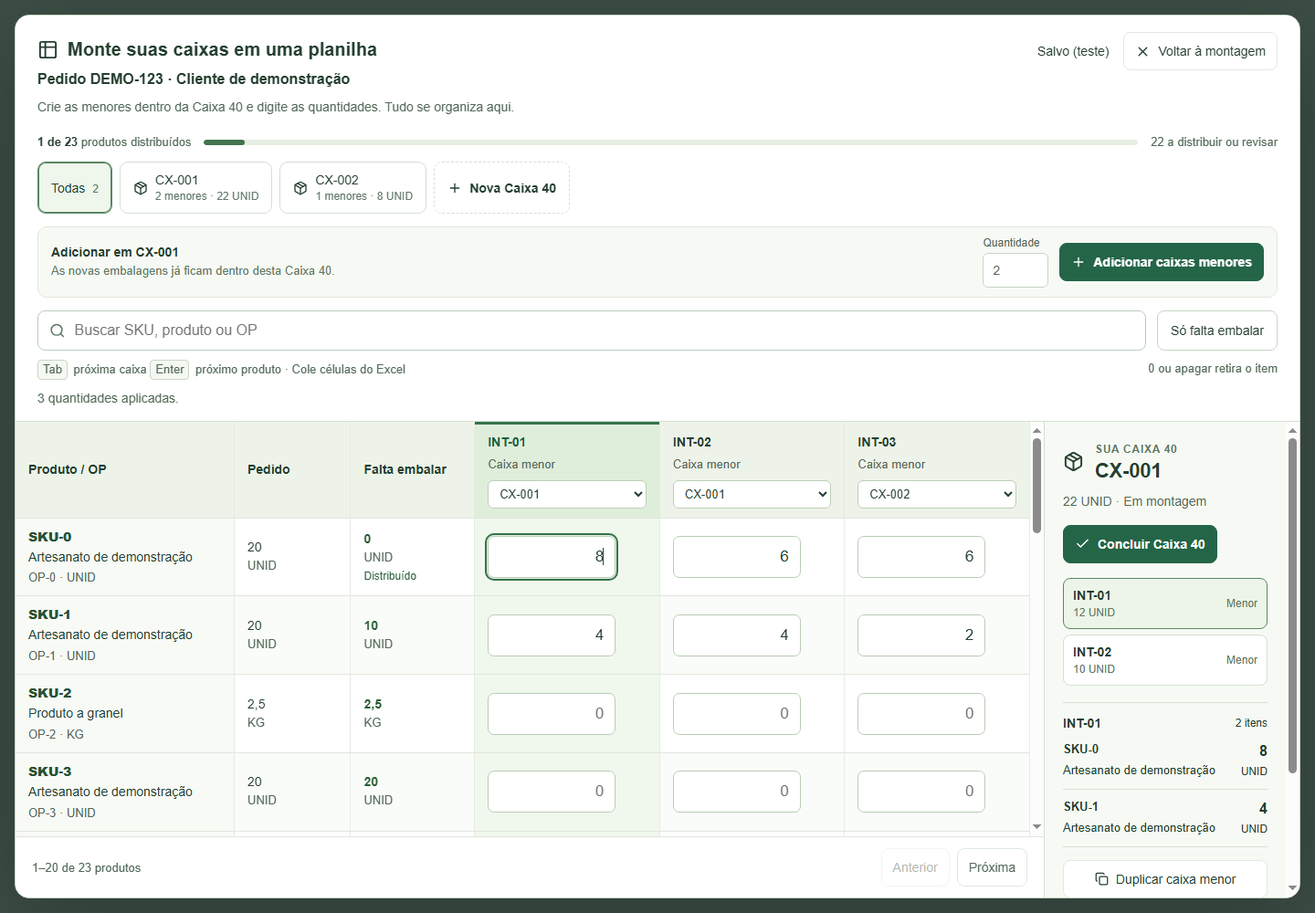
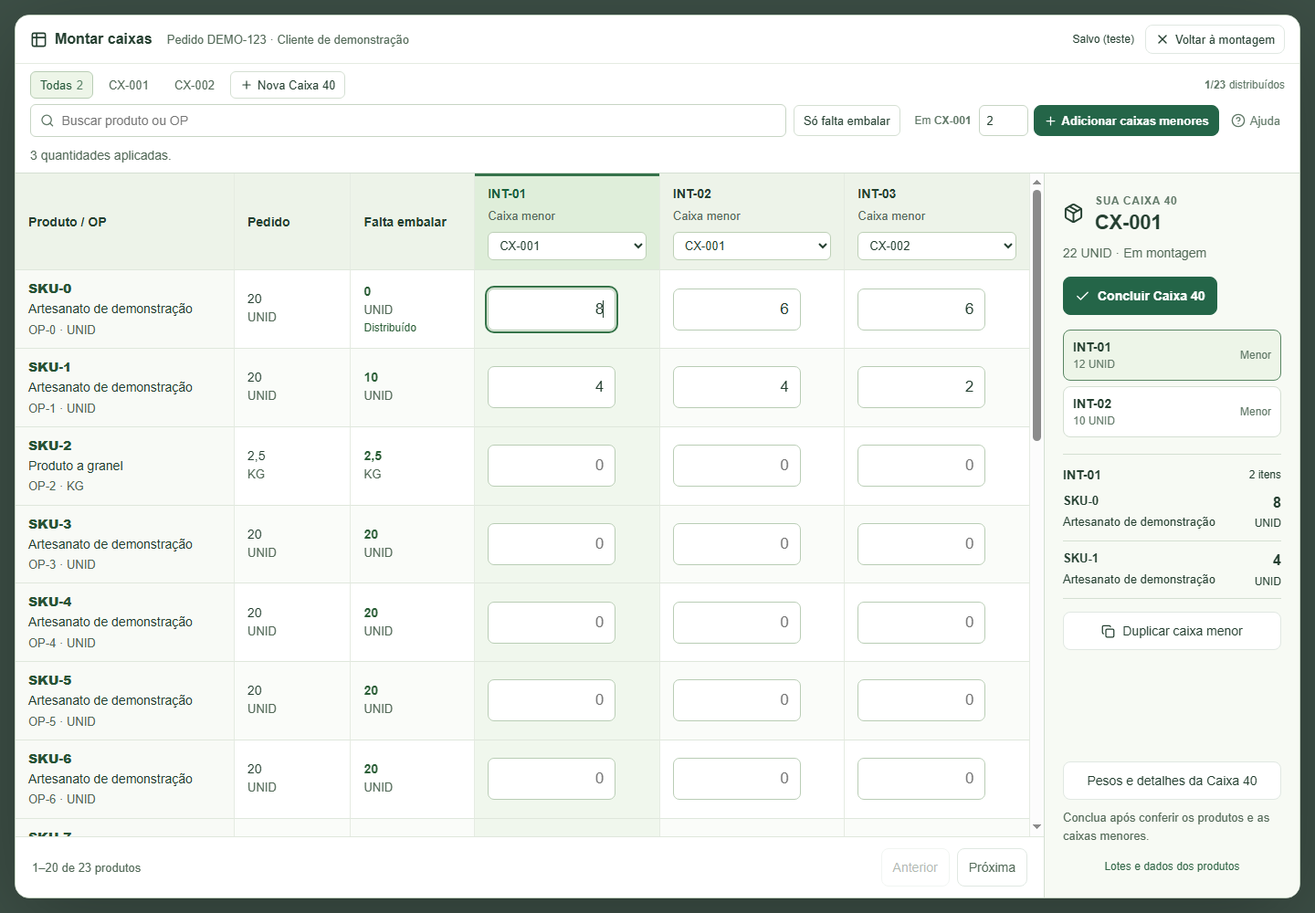
Compact packing sheet controls and refresh manual visuals

diff --git a/app/packing-sheet.module.css b/app/packing-sheet.module.css
@@ -1,23 +1,6 @@
 .sheet{min-width:0;margin:16px 0 24px;border:1px solid light-dark(#d4dfd2,var(--night-border));border-radius:12px;background:light-dark(#fff,var(--night-surface));overflow:hidden;color:light-dark(#243f30,var(--night-text))}
-.heading{display:flex;align-items:flex-start;justify-content:space-between;gap:24px;padding:22px 24px 16px}
-.heading h2{display:flex;align-items:center;gap:10px;margin:6px 0 0;font-size:1.35rem;line-height:1.3;font-weight:650}
-.eyebrow{font-size:.75rem;letter-spacing:.09em;color:light-dark(#607867,var(--night-muted));font-weight:600}
-.heading p,.hint{font-size:.875rem;line-height:1.5;color:light-dark(#526957,var(--night-muted));margin:8px 0}
-.heading .orderLabel{font-weight:600;color:inherit;font-size:1rem}
-.headerActions{display:flex;align-items:center;gap:16px;flex-shrink:0}
+.hint{font-size:.875rem;line-height:1.5;color:light-dark(#526957,var(--night-muted));margin:8px 0}
 .sheet :global(.button){min-height:42px;font-size:.875rem;display:inline-flex;align-items:center;justify-content:center;gap:8px}
-.saveStatus{font-size:.875rem}
-.metrics{display:grid;grid-template-columns:repeat(4,minmax(0,1fr));gap:12px;margin:0 24px 18px}
-.metrics>div{padding:14px 18px;background:light-dark(#f3f7f1,var(--night-raised));border:1px solid light-dark(#dfe8dc,var(--night-border));border-radius:10px}
-.metrics span{display:block;font-size:.875rem;color:light-dark(#526957,var(--night-muted))}
-.metrics strong{display:block;font-size:1.6rem;font-weight:650;margin-top:6px;font-variant-numeric:tabular-nums}
-.toolbar{display:flex;align-items:center;gap:12px;padding:0 24px 14px;flex-wrap:wrap}
-.sheet .search{display:flex;flex-direction:row;align-items:center;gap:10px;flex:1;margin:0;min-width:200px;border:1px solid light-dark(#b9cdbd,var(--night-border));border-radius:8px;padding:0 12px;color:light-dark(#597762,var(--night-muted))}
-.search input{width:100%;min-width:0;border:0!important;background:transparent!important;padding:12px 0!important;font-size:1rem;color:inherit}
-.filter{display:inline-flex;align-items:center;justify-content:center;gap:6px;padding:11px 14px;min-height:44px;border:1px solid light-dark(#c7d5c4,var(--night-border));background:transparent;border-radius:8px;font:inherit;font-size:.875rem;color:inherit;cursor:pointer}
-.filter[aria-pressed=true]{background:light-dark(#e8f2e4,var(--night-green-soft));border-color:light-dark(#7d9f70,var(--night-green));color:light-dark(#225638,var(--night-green))}
-.instructions{display:flex;justify-content:space-between;gap:12px;flex-wrap:wrap;padding:0 24px 14px;font-size:.8125rem;line-height:1.5;color:light-dark(#526957,var(--night-muted))}
-.instructions kbd{display:inline-block;border:1px solid light-dark(#c9d6c6,var(--night-border));border-radius:4px;padding:0 5px;background:light-dark(#f5f8f2,var(--night-raised));font:inherit;margin-right:3px}
 .sheet>.hint,.sheet>.error{margin:0 24px 14px}
 .workspace{min-height:0;min-width:0;display:grid;grid-template-columns:minmax(0,1fr)}
 .gridPane{min-width:0;min-height:0;display:flex;flex-direction:column}
@@ -49,7 +32,7 @@
 .screen{position:fixed;inset:0;width:calc(100vw - 32px);height:calc(100dvh - 32px);max-width:none;max-height:none;margin:auto;padding:0;border:1px solid light-dark(#c7d5c4,var(--night-border));border-radius:16px;background:light-dark(#fff,var(--night-surface));color:inherit;box-shadow:0 24px 100px #0004}
 .screen::backdrop{background:#10251dcc}
 .expanded{margin:0;border:0;border-radius:0;height:100%;display:flex;flex-direction:column}
-.expanded>.heading,.expanded>.metrics,.expanded>.toolbar,.expanded>.instructions,.expanded>.error,.expanded>.hint{flex-shrink:0}
+.expanded>.error,.expanded>.hint{flex-shrink:0}
 .expanded .workspace{flex:1;grid-template-columns:minmax(0,1fr) 280px;overflow:hidden}
 .expanded .scroll{max-height:none;flex:1;min-height:0}
 .preview{display:flex;flex-direction:column;min-width:0;min-height:0;padding:20px;border-left:1px solid light-dark(#d4dfd2,var(--night-border));border-top:1px solid light-dark(#d4dfd2,var(--night-border));background:light-dark(#f7faf4,var(--night-surface));overflow:auto}
@@ -67,15 +50,22 @@
 .previewEmpty p{font-size:1rem;font-weight:600}
 .previewActions{display:flex;flex-direction:column;gap:10px;margin-top:auto;padding-top:24px}
 .previewActions small{font-size:.8125rem;line-height:1.5;color:light-dark(#526957,var(--night-muted))}
-@media(max-width:1050px){.expanded .workspace{grid-template-columns:minmax(0,1fr) 235px}.preview{padding:16px}.heading{gap:16px}.headerActions{flex-direction:column;align-items:flex-end;gap:8px}.table th:first-child{min-width:210px;max-width:250px}.metrics{gap:8px}.metrics>div{padding:12px}}
-@media(max-width:700px){.heading{flex-direction:column;padding:18px 16px 14px;gap:12px}.heading h2{font-size:1.2rem}.headerActions{width:100%;flex-direction:row;justify-content:space-between;align-items:center}.metrics{grid-template-columns:repeat(2,minmax(0,1fr));margin:0 16px 14px}.metrics strong{font-size:1.3rem}.metrics span{font-size:.8125rem}.toolbar{padding:0 16px 12px;gap:8px}.sheet .search{flex-basis:100%}.instructions{padding:0 16px 12px}.table th:first-child{min-width:160px;max-width:180px;width:160px}.table th,.table td{padding:10px}.table thead th{min-width:98px}.footer{align-items:flex-start}.scroll{max-height:60dvh}.mobileHint{display:block;font-size:.8125rem;margin:0;padding:8px 16px;background:light-dark(#edf3e9,var(--night-raised));color:light-dark(#526957,var(--night-muted))}.screen{width:100vw;height:100dvh;border:0;border-radius:0;overflow:auto}.expanded{height:auto;min-height:100%}.expanded .workspace{display:flex;flex-direction:column;overflow:visible;flex:none}.expanded .scroll{flex:none;max-height:58dvh;min-height:220px}.preview{border-left:0;overflow:visible;min-height:250px}.previewActions{margin-top:0}.sheet>.error,.sheet>.hint{margin:0 16px 12px}}
-@media(max-width:700px){.metrics>div:first-child,.metrics>div:nth-child(3){display:none}.heading>div>p:not(.orderLabel){display:none}.instructions{display:none}}
-.progress{display:flex;align-items:center;gap:14px;margin:0 24px 20px;font-size:.8125rem;color:light-dark(#526957,var(--night-muted))}.progress strong{color:light-dark(#243f30,var(--night-text))}.progress progress{flex:1;min-width:60px;height:6px;border:0;border-radius:8px;overflow:hidden;accent-color:#42734e}.progress progress::-webkit-progress-bar{background:light-dark(#e7eee3,var(--night-raised))}.progress progress::-webkit-progress-value{background:light-dark(#42734e,var(--night-green));border-radius:8px}
-.boxTabs{display:flex;align-items:stretch;gap:8px;padding:0 24px 18px;overflow-x:auto;flex-shrink:0}.boxTabs button{display:flex;align-items:center;gap:8px;white-space:nowrap;padding:11px 14px;min-height:48px;border:1px solid light-dark(#d4dfd2,var(--night-border));border-radius:9px;background:transparent;color:inherit;cursor:pointer;font:inherit;font-size:.875rem;text-align:left}.boxTabs button[aria-pressed=true]{border-color:light-dark(#598663,var(--night-green));background:light-dark(#eff6eb,var(--night-green-soft));box-shadow:inset 0 0 0 1px light-dark(#598663,var(--night-green))}.boxTabs small{display:block;font-size:.75rem;margin-top:3px;font-weight:400;color:light-dark(#607867,var(--night-muted))}.boxTabs .newOuter{font-weight:600;border-style:dashed}.boxTabs button:disabled{opacity:.55;cursor:default}
-.addRow{display:flex;align-items:center;gap:12px;margin:0 24px 18px;padding:14px 16px;border:1px solid light-dark(#dfe8dc,var(--night-border));border-radius:10px;background:light-dark(#f7faf4,var(--night-raised))}.addRow>span{flex:1;font-size:.875rem}.addRow small{display:block;font-size:.8125rem;color:light-dark(#607867,var(--night-muted));margin-top:4px;line-height:1.4}.addRow label{display:flex;flex-direction:column;gap:4px;margin:0;font-size:.75rem;color:light-dark(#526957,var(--night-muted))}.addRow input{width:72px}.addRow input,.addRow select{padding:8px 10px;min-height:38px;border:1px solid light-dark(#c7d5c4,var(--night-border));border-radius:6px;font:inherit;font-size:.875rem;background:light-dark(#fff,var(--night-surface));color:inherit}.sheet .addRow .button{align-self:flex-end}
+@media(max-width:1050px){.expanded .workspace{grid-template-columns:minmax(0,1fr) 235px}.preview{padding:16px}.table th:first-child{min-width:210px;max-width:250px}}
+@media(max-width:700px){.table th:first-child{min-width:160px;max-width:180px;width:160px}.table th,.table td{padding:10px}.table thead th{min-width:98px}.footer{align-items:flex-start}.scroll{max-height:60dvh}.mobileHint{display:block;font-size:.8125rem;margin:0;padding:8px 16px;background:light-dark(#edf3e9,var(--night-raised));color:light-dark(#526957,var(--night-muted))}.screen{width:100vw;height:100dvh;border:0;border-radius:0;overflow:auto}.expanded{height:auto;min-height:100%}.expanded .workspace{display:flex;flex-direction:column;overflow:visible;flex:none}.expanded .scroll{flex:none;max-height:58dvh;min-height:220px}.preview{border-left:0;overflow:visible;min-height:250px}.previewActions{margin-top:0}.sheet>.error,.sheet>.hint{margin:0 16px 12px}}
 .table th .destination{display:block;width:100%;min-width:125px;max-width:180px;margin-top:8px;padding:6px 22px 6px 8px;border:1px solid light-dark(#bdd0b6,var(--night-border));border-radius:6px;color:inherit;background:light-dark(#fff,var(--night-surface));font:inherit;font-size:.8125rem;font-weight:400}
-.workspace{grid-template-columns:minmax(0,1fr) 260px}.table th:first-child{min-width:210px;width:240px;max-width:260px}.sheet:not(.expanded) .preview{max-height:680px}.sheet:not(.expanded) .heading{padding:20px}.sheet:not(.expanded) .heading h2{font-size:1.15rem}.sheet:not(.expanded) .headerActions{flex-direction:column;align-items:flex-end}
-.composition{display:flex;flex-direction:column;gap:6px;margin-bottom:18px}.composition>button{display:flex;justify-content:space-between;align-items:center;gap:10px;text-align:left;width:100%;font:inherit;font-size:.875rem;padding:10px;border:1px solid light-dark(#d4dfd2,var(--night-border));border-radius:8px;background:light-dark(#fff,var(--night-raised));color:inherit;cursor:pointer}.composition>button[aria-pressed=true]{border-color:light-dark(#598663,var(--night-green));background:light-dark(#edf5e8,var(--night-green-soft))}.composition small{display:block;font-size:.75rem;font-weight:400;margin-top:4px;color:light-dark(#607867,var(--night-muted))}.composition>button>span:first-child{font-weight:600}.composition>button>span:last-child{font-size:.75rem;color:light-dark(#607867,var(--night-muted))}.composition p{font-size:.875rem;line-height:1.5}.selectedContent h4{display:flex;align-items:center;justify-content:space-between;gap:8px;margin:0;padding:14px 0 2px;border-top:1px solid light-dark(#d4dfd2,var(--night-border));font-size:.875rem}.selectedContent h4 small{font-size:.75rem;font-weight:400}.selectedContent li{padding:10px 0;font-size:.8125rem}.selectedContent li>strong{font-size:1rem}.smallActions{display:flex;flex-direction:column;gap:8px;margin-top:14px}.expanded>.progress,.expanded>.addRow{flex-shrink:0}.previewActions{padding-top:18px}
+.workspace{grid-template-columns:minmax(0,1fr) 260px}.table th:first-child{min-width:210px;width:240px;max-width:260px}.sheet:not(.expanded) .preview{max-height:680px}
+.composition{display:flex;flex-direction:column;gap:6px;margin-bottom:18px}.composition>button{display:flex;justify-content:space-between;align-items:center;gap:10px;text-align:left;width:100%;font:inherit;font-size:.875rem;padding:10px;border:1px solid light-dark(#d4dfd2,var(--night-border));border-radius:8px;background:light-dark(#fff,var(--night-raised));color:inherit;cursor:pointer}.composition>button[aria-pressed=true]{border-color:light-dark(#598663,var(--night-green));background:light-dark(#edf5e8,var(--night-green-soft))}.composition small{display:block;font-size:.75rem;font-weight:400;margin-top:4px;color:light-dark(#607867,var(--night-muted))}.composition>button>span:first-child{font-weight:600}.composition>button>span:last-child{font-size:.75rem;color:light-dark(#607867,var(--night-muted))}.composition p{font-size:.875rem;line-height:1.5}.selectedContent h4{display:flex;align-items:center;justify-content:space-between;gap:8px;margin:0;padding:14px 0 2px;border-top:1px solid light-dark(#d4dfd2,var(--night-border));font-size:.875rem}.selectedContent h4 small{font-size:.75rem;font-weight:400}.selectedContent li{padding:10px 0;font-size:.8125rem}.selectedContent li>strong{font-size:1rem}.smallActions{display:flex;flex-direction:column;gap:8px;margin-top:14px}.previewActions{padding-top:18px}
 @media(max-width:1100px){.sheet:not(.expanded) .workspace{grid-template-columns:minmax(0,1fr)}.sheet:not(.expanded) .preview{max-height:none;border-left:0}.sheet:not(.expanded) .composition{display:grid;grid-template-columns:repeat(auto-fit,minmax(160px,1fr))}.sheet:not(.expanded) .selectedContent{display:none}.sheet:not(.expanded) .previewActions{flex-direction:row;flex-wrap:wrap}.sheet:not(.expanded) .previewActions small{flex-basis:100%}}
-@media(max-width:700px){.progress{margin:0 16px 16px;flex-wrap:wrap;gap:8px}.progress progress{order:3;flex-basis:100%}.progress>span:last-child{margin-left:auto}.boxTabs{padding:0 16px 14px}.addRow{margin:0 16px 14px;padding:12px;flex-wrap:wrap;gap:10px}.addRow>span{flex-basis:100%}.addRow input{width:64px}.sheet .addRow .button{flex:1;font-size:.8125rem}.addRow small{display:none}.sheet:not(.expanded) .headerActions{flex-direction:row;align-items:center}.table th:first-child{min-width:155px;max-width:180px;width:155px}.workspace{display:flex;flex-direction:column}.table th .destination{min-width:120px}.sheet:not(.expanded) .previewActions{flex-direction:column}.preview{border-left:0}}
-.conclude{margin-bottom:16px}.conclude .button{width:100%}.expanded .heading{padding:18px 24px 12px}.expanded .heading h2{font-size:1.25rem}.expanded .eyebrow{display:none}.expanded .progress{margin-bottom:14px}.expanded .boxTabs{padding-bottom:14px}.expanded .addRow{margin-bottom:14px;padding:10px 14px}.expanded .toolbar{padding-bottom:10px}.expanded .instructions{padding-bottom:10px}
+@media(max-width:700px){.table th:first-child{min-width:155px;max-width:180px;width:155px}.workspace{display:flex;flex-direction:column}.table th .destination{min-width:120px}.sheet:not(.expanded) .previewActions{flex-direction:column}.preview{border-left:0}}
+.conclude{margin-bottom:16px}.conclude .button{width:100%}
+
+/* Compact controls keep the product grid in view. */
+.heading{display:flex;align-items:center;justify-content:space-between;gap:16px;padding:10px 16px;border-bottom:1px solid light-dark(#e5ebe2,var(--night-border));flex-shrink:0}
+.identity{display:flex;align-items:center;gap:16px;min-width:0;flex:1}.heading h2{display:flex;align-items:center;gap:8px;margin:0;font-size:1rem;line-height:1.35;font-weight:650;white-space:nowrap}.orderLabel{font-size:.8125rem;color:light-dark(#526957,var(--night-muted));overflow:hidden;text-overflow:ellipsis;white-space:nowrap;min-width:0}
+.headerActions{display:flex;align-items:center;gap:12px;flex-shrink:0}.saveStatus{font-size:.75rem}.heading :global(.button){min-height:32px;padding:6px 10px;font-size:.8125rem;gap:6px}.heading :global(.button) svg{flex-shrink:0}
+.boxRow{display:flex;align-items:center;gap:16px;padding:8px 16px 6px;flex-shrink:0;min-width:0}.boxTabs{display:flex;align-items:center;gap:6px;min-width:0;flex:1;overflow-x:auto}.boxTabs button{display:inline-flex;align-items:center;gap:5px;white-space:nowrap;min-height:30px;padding:5px 10px;border:1px solid transparent;border-radius:6px;background:transparent;color:light-dark(#526957,var(--night-muted));font:inherit;font-size:.8125rem;cursor:pointer}.boxTabs button[aria-pressed=true]{border-color:light-dark(#b9cdb5,var(--night-border));background:light-dark(#edf5e8,var(--night-green-soft));color:light-dark(#245738,var(--night-green))}.boxTabs small{font:inherit;opacity:.75}.boxTabs .newOuter{border-color:light-dark(#d4dfd2,var(--night-border));color:inherit}.boxTabs button:disabled{opacity:.55;cursor:default}.progress{font-size:.75rem;color:light-dark(#607867,var(--night-muted));white-space:nowrap;flex-shrink:0}.progress strong{font-weight:600;color:inherit}
+.toolbar{display:flex;align-items:center;gap:8px;flex-wrap:wrap;padding:0 16px 10px;flex-shrink:0}.sheet .search{display:flex;flex-direction:row;align-items:center;gap:8px;flex:1;min-width:170px;margin:0;border:1px solid light-dark(#c7d5c4,var(--night-border));border-radius:6px;padding:0 10px;color:light-dark(#607867,var(--night-muted))}.search input{width:100%;min-width:0;min-height:34px;border:0!important;background:transparent!important;padding:7px 0!important;font-size:.875rem;color:inherit}.filter{display:inline-flex;align-items:center;justify-content:center;gap:5px;min-height:34px;padding:7px 10px;border:1px solid light-dark(#d4dfd2,var(--night-border));border-radius:6px;background:transparent;font:inherit;font-size:.8125rem;white-space:nowrap;color:inherit;cursor:pointer}.filter[aria-pressed=true]{background:light-dark(#e8f2e4,var(--night-green-soft));border-color:light-dark(#7d9f70,var(--night-green));color:light-dark(#225638,var(--night-green))}
+.addRow{display:flex;align-items:center;gap:6px;margin-left:auto;max-width:100%}.addDestination{font-size:.75rem;color:light-dark(#607867,var(--night-muted));white-space:nowrap;margin:0 2px 0 8px}.addDestination strong{font-weight:600;color:inherit}.addRow input,.addRow select{min-height:34px;padding:6px 8px;border:1px solid light-dark(#c7d5c4,var(--night-border));border-radius:6px;background:light-dark(#fff,var(--night-surface));font:inherit;font-size:.8125rem;color:inherit}.addRow input{width:54px;min-width:0}.addRow select{max-width:125px}.addRow :global(.button){min-height:34px;padding:7px 10px;font-size:.8125rem;white-space:nowrap;gap:5px}
+.help{position:relative;margin:0;color:light-dark(#607867,var(--night-muted));font-size:.8125rem}.help summary{display:flex;align-items:center;gap:5px;min-height:34px;padding:7px 5px;cursor:pointer;list-style:none;white-space:nowrap}.help summary::-webkit-details-marker{display:none}.help[open] summary{color:light-dark(#245738,var(--night-green))}.help>div{position:absolute;top:100%;right:0;width:min(340px,calc(100vw - 48px));padding:12px 16px;border:1px solid light-dark(#c7d5c4,var(--night-border));border-radius:8px;background:light-dark(#fff,var(--night-surface));box-shadow:0 8px 28px #0002;z-index:10;line-height:1.5;color:light-dark(#526957,var(--night-muted))}.help p{margin:0 0 10px}.help p:last-child{margin-bottom:0}.help kbd{border:1px solid light-dark(#c7d5c4,var(--night-border));border-radius:3px;padding:0 4px;font:inherit}.hint{font-size:.875rem;line-height:1.5;color:light-dark(#526957,var(--night-muted));margin:8px 0}.sheet>.hint,.sheet>.error{margin:0 16px 8px}
+@media(max-width:1100px){.identity{flex-wrap:wrap;gap:2px 12px}.orderLabel{flex-basis:100%}.toolbar .search{flex-basis:240px}}
+@media(max-width:700px){.heading{padding:8px 12px;gap:8px}.identity{display:block}.heading h2{font-size:.9375rem}.orderLabel{display:block;font-size:.75rem;margin-top:3px}.headerActions{gap:8px}.heading :global(.button){min-height:36px;min-width:36px;padding:8px}.headerActions button>span{display:none}.saveStatus{max-width:90px}.boxRow{padding:6px 12px;gap:8px}.boxTabs button{min-height:34px;padding:6px 8px}.progress{font-size:.6875rem}.toolbar{padding:0 12px 8px;gap:6px}.toolbar .search{order:0;flex-basis:calc(100% - 150px);min-width:140px}.filter{order:1;font-size:.75rem;min-height:36px;padding:7px 8px}.addRow{order:2;flex-wrap:wrap;flex:1;margin-left:0;gap:5px}.addDestination{margin:0;font-size:.6875rem}.addRow input{width:44px;padding:6px 4px;min-height:36px}.addRow select{max-width:110px;min-height:36px}.addRow :global(.button){font-size:.75rem;min-height:36px;padding:6px 8px}.help{order:3}.help summary{min-height:36px;padding:6px}.help summary svg{width:16px}.help summary{font-size:0;gap:0}.help>div{right:0;font-size:.8125rem}.sheet>.hint,.sheet>.error{margin:0 12px 8px}.mobileHint{padding:4px 12px;font-size:.75rem}}

diff --git a/app/packing-sheet.tsx b/app/packing-sheet.tsx
@@ -1,6 +1,6 @@
 "use client";
 import {useEffect,useId,useRef,useState,type ClipboardEvent,type KeyboardEvent,type ReactNode} from "react";
-import {Plus,Search,Table2,Maximize2,X,Package,Check,Copy} from "lucide-react";
+import {Plus,Search,Table2,Maximize2,X,Package,Check,Copy,CircleHelp} from "lucide-react";
 import {packingBalance} from "../lib/packing-assistant.mjs";
 import {applySheetQuantities,type SheetChange} from "../lib/packing-sheet.mjs";
 import {isDecimalDraft,type Shipment,type ShippingOP} from "../lib/shipping.mjs";
@@ -70,12 +70,11 @@ export default function PackingSheet({value,ops,disabled,onChange,onOpen,onForm,
  }
  function selectOuter(id:string){setScope(id);setActiveBox("");setNotice("")}
  const content=<section className={styles.sheet+(expanded?" "+styles.expanded:"")} aria-label="Planilha de montagem">
-  <header className={styles.heading}><div><span className={styles.eyebrow}>MONTAGEM DO PEDIDO</span><h2 id={titleId}><Table2 size={23}/>Monte suas caixas em uma planilha</h2>{orderLabel&&<p className={styles.orderLabel}>{orderLabel}</p>}<p id={helpId}>{hasSmall?"Crie as menores dentro da Caixa 40 e digite as quantidades. Tudo se organiza aqui.":"Digite as quantidades de cada produto. O conteúdo da Caixa 40 aparece ao lado."}</p></div><div className={styles.headerActions}><div className={styles.saveStatus}>{saveStatus}</div>{expanded?<button type="button" className="button" onClick={closeScreen}><X size={17}/>Voltar à montagem</button>:<button ref={openButton} type="button" className="button primary" onClick={()=>setExpanded(true)}><Maximize2 size={17}/>Abrir tela da planilha</button>}</div></header>
-  <div className={styles.progress} aria-label="Resumo da distribuição"><span><strong>{unique.length-pending.length} de {unique.length}</strong> produtos distribuídos</span><progress aria-label="Produtos distribuídos" value={unique.length-pending.length} max={unique.length||1}/><span>{pending.length?pending.length+" a distribuir ou revisar":"Tudo distribuído"}</span></div>
-  <nav className={styles.boxTabs} aria-label="Caixas 40 da planilha"><button type="button" aria-pressed={currentScope==="all"} onClick={()=>selectOuter("all")}>Todas <small>{value.caixas.length}</small></button>{value.caixas.map(b=><button type="button" key={b.id} aria-pressed={currentScope===b.id} onClick={()=>selectOuter(b.id)}><Package size={16}/><span>{b.codigo}<small>{isMounted(b)?"Montada":(b.caixasInternas?.length??0)+" menores · "+smallBoxQuantity(b.itens)}</small></span></button>)}{!!value.caixasEmMontagem?.length&&<button type="button" aria-pressed={currentScope==="loose"} onClick={()=>selectOuter("loose")}>Sem Caixa 40 <small>{value.caixasEmMontagem.length}</small></button>}<button type="button" className={styles.newOuter} disabled={disabled||value.caixas.length>=100||!ops.length} onClick={createOuter}><Plus size={16}/>Nova Caixa 40</button></nav>
-  {hasSmall&&<div className={styles.addRow}><span><strong>{destination?"Adicionar em "+destination.codigo:"Comece pelas caixas menores"}</strong><small>{destination?"As novas embalagens já ficam dentro desta Caixa 40.":"A primeira Caixa 40 será criada junto."}</small></span><label>Quantidade<input aria-label="Quantidade de novas embalagens" type="number" min="1" max="100" step="1" value={count} disabled={disabled} onChange={e=>setCount(e.target.value)}/></label>{mode==="mixed"&&<label>Embalagem<select aria-label="Tipo das novas embalagens" value={kind} onChange={e=>setKind(e.target.value)} disabled={disabled}><option value="inner">Caixa menor</option><option value="bag">Bag</option></select></label>}<button type="button" className="button primary" disabled={disabled||!ops.length||!!destination&&isMounted(destination)} onClick={addSmall}><Plus size={16}/>{mode==="bags"||mode==="mixed"&&kind==="bag"?"Adicionar bags":"Adicionar caixas menores"}</button></div>}
-  <div className={styles.toolbar}><label className={styles.search}><Search size={18}/><input type="search" aria-label="Buscar produto na planilha" placeholder="Buscar SKU, produto ou OP" value={query} onChange={e=>{setQuery(e.target.value);setPage(0)}}/></label><button type="button" className={styles.filter} aria-pressed={pendingOnly} onClick={()=>{setPendingOnly(!pendingOnly);setPage(0)}}>{pendingOnly&&<Check size={15}/>}Só falta embalar</button></div>
-  <div className={styles.instructions}><span><kbd>Tab</kbd> próxima caixa <kbd>Enter</kbd> próximo produto · Cole células do Excel</span><span>0 ou apagar retira o item</span></div>
+  <header className={styles.heading}><div className={styles.identity}><h2 id={titleId}><Table2 size={19}/>Montar caixas</h2>{orderLabel&&<span className={styles.orderLabel} title={orderLabel}>{orderLabel}</span>}</div><div className={styles.headerActions}><div className={styles.saveStatus}>{saveStatus}</div>{expanded?<button type="button" className="button" aria-label="Voltar à montagem" onClick={closeScreen}><X size={16}/><span>Voltar à montagem</span></button>:<button ref={openButton} type="button" className="button" aria-label="Abrir tela da planilha" onClick={()=>setExpanded(true)}><Maximize2 size={16}/><span>Abrir tela da planilha</span></button>}</div></header>
+  <div className={styles.boxRow}><nav className={styles.boxTabs} aria-label="Caixas 40 da planilha"><button type="button" aria-pressed={currentScope==="all"} onClick={()=>selectOuter("all")}>Todas <small>{value.caixas.length}</small></button>{value.caixas.map(b=><button type="button" key={b.id} aria-pressed={currentScope===b.id} title={(isMounted(b)?"Montada · ":"")+smallBoxQuantity(b.itens)} onClick={()=>selectOuter(b.id)}>{b.codigo}{isMounted(b)&&<Check size={13}/>}</button>)}{!!value.caixasEmMontagem?.length&&<button type="button" aria-pressed={currentScope==="loose"} onClick={()=>selectOuter("loose")}>Sem Caixa 40 <small>{value.caixasEmMontagem.length}</small></button>}<button type="button" className={styles.newOuter} disabled={disabled||value.caixas.length>=100||!ops.length} onClick={createOuter}><Plus size={14}/>Nova Caixa 40</button></nav><span className={styles.progress} aria-label="Resumo da distribuição" title={pending.length?pending.length+" produtos a distribuir ou revisar":"Todos os produtos distribuídos"}><strong>{unique.length-pending.length}/{unique.length}</strong> distribuídos</span></div>
+  <div className={styles.toolbar}><label className={styles.search}><Search size={16}/><input type="search" aria-label="Buscar produto na planilha" placeholder="Buscar produto ou OP" value={query} onChange={e=>{setQuery(e.target.value);setPage(0)}}/></label><button type="button" className={styles.filter} aria-pressed={pendingOnly} onClick={()=>{setPendingOnly(!pendingOnly);setPage(0)}}>{pendingOnly&&<Check size={14}/>}Só falta embalar</button>
+  {hasSmall&&<div className={styles.addRow}><span className={styles.addDestination} title={destination?"As novas embalagens serão criadas em "+destination.codigo:"A primeira Caixa 40 será criada junto."}>{destination?<>Em <strong>{destination.codigo}</strong></>:"Nova Caixa 40"}</span><input aria-label="Quantidade de novas embalagens" title="Quantidade de novas embalagens" type="number" min="1" max="100" step="1" value={count} disabled={disabled} onChange={e=>setCount(e.target.value)}/>{mode==="mixed"&&<select aria-label="Tipo das novas embalagens" value={kind} onChange={e=>setKind(e.target.value)} disabled={disabled}><option value="inner">Caixa menor</option><option value="bag">Bag</option></select>}<button type="button" className="button primary" disabled={disabled||!ops.length||!!destination&&isMounted(destination)} onClick={addSmall}><Plus size={15}/>{mode==="bags"||mode==="mixed"&&kind==="bag"?"Adicionar bags":"Adicionar caixas menores"}</button></div>}
+  <details className={styles.help}><summary><CircleHelp size={16}/>Ajuda</summary><div id={helpId}><p>Produtos nas linhas, caixas nas colunas. Digite as quantidades na unidade da OP.</p><p><kbd>Tab</kbd> próxima caixa · <kbd>Enter</kbd> próximo produto. Você também pode colar células do Excel.</p><p>0 ou apagar retira o item. Escolha a Caixa 40 no topo da coluna da menor para mudar seu destino.</p><p>Para criar várias menores, informe a quantidade ao lado do botão de adicionar. Sem uma maior disponível, ela será criada junto.</p></div></details></div>
   {notice&&<p className={notice.startsWith("Não aplicado")?styles.error:styles.hint} role="status">{notice}</p>}
   <div className={styles.workspace}><div className={styles.gridPane}><p className={styles.mobileHint}>Deslize para os lados para ver as caixas.</p>
   {!boxes.length?<div className={styles.empty}><Package size={32}/><p>{outer?"Adicione as caixas menores para preencher esta Caixa 40.":"Crie sua primeira caixa para começar."}</p><small>Os produtos do pedido já estão prontos para preencher.</small></div>:<div className={styles.scroll} ref={table} tabIndex={0} role="region" aria-label="Quantidades por produto e caixa" aria-describedby={helpId}><table className={styles.table}><thead><tr><th scope="col">Produto / OP</th><th scope="col">Pedido</th><th scope="col">Falta embalar</th>{boxes.map(box=><th scope="col" key={box.key} data-selected={selected?.key===box.key}><button type="button" aria-pressed={selected?.key===box.key} onClick={()=>setActiveBox(box.key)}>{box.codigo}</button><small>{box.inner?box.tipo==="bag"?"Bag":"Caixa menor":"Produtos diretos"}{box.locked?" · Conferida":""}</small>{box.inner&&<select className={styles.destination} aria-label={"Caixa 40 de "+box.codigo} value={box.parentId??""} disabled={disabled||!!box.parentId&&box.locked} onChange={e=>moveBox(box,e.target.value)}><option value="">Sem Caixa 40</option>{value.caixas.map(b=><option key={b.id} value={b.id} disabled={isMounted(b)}>{b.codigo}{isMounted(b)?" · Montada":""}</option>)}<option value="new" disabled={value.caixas.length>=100}>+ Nova Caixa 40</option></select>}</th>)}</tr></thead><tbody>

diff --git a/lib/manual-visuals.ts b/lib/manual-visuals.ts
@@ -211,12 +211,12 @@ const scenes:Record<string,Array<[string,string,string,[number,number,number,num
     [
       "planilha-caixas",
       "Abra a planilha do pedido",
-      "Em Expedição → Montar caixas, use Planilha do pedido e Abrir tela da planilha. Menores e Caixa 40 são montadas juntas.",
+      "Em Expedição → Montar caixas, abra a planilha. O topo compacto deixa mais espaço para os produtos; as instruções ficam em Ajuda.",
       [
-        41,
-        42,
-        700,
-        90
+        33,
+        26,
+        600,
+        33
       ]
     ],
     [
@@ -224,21 +224,21 @@ const scenes:Record<string,Array<[string,string,string,[number,number,number,num
       "Crie ou selecione a Caixa 40",
       "As caixas maiores ficam no alto. Nova Caixa 40 cria outra; Todas mostra as colunas de todo o envio.",
       [
-        41,
-        177,
-        585,
-        57
+        33,
+        78,
+        345,
+        30
       ]
     ],
     [
       "planilha-caixas",
       "Crie várias menores juntas",
-      "Confira Adicionar em, informe o número de embalagens e clique em Adicionar caixas menores. Sem uma maior, ela é criada junto.",
+      "Confira o destino ao lado da busca, informe o número de embalagens e clique em Adicionar caixas menores. Sem uma maior, ela é criada junto.",
       [
-        41,
-        248,
-        1358,
-        78
+        999,
+        114,
+        336,
+        36
       ]
     ],
     [
@@ -247,9 +247,9 @@ const scenes:Record<string,Array<[string,string,string,[number,number,number,num
       "Digite a quantidade na linha do SKU e na coluna da menor. Use Tab, Enter ou cole um intervalo do Excel. O saldo acompanha o pedido inteiro.",
       [
         520,
-        568,
+        296,
         600,
-        84
+        85
       ]
     ],
     [
@@ -258,9 +258,9 @@ const scenes:Record<string,Array<[string,string,string,[number,number,number,num
       "Mude o destino para transferir a embalagem com todo o conteúdo. + Nova Caixa 40 cria outra maior. A menor continua na planilha.",
       [
         520,
-        462,
+        190,
         600,
-        106
+        105
       ]
     ],
     [
@@ -269,9 +269,9 @@ const scenes:Record<string,Array<[string,string,string,[number,number,number,num
       "A lateral mostra o conteúdo da Caixa 40. Preencha ou remova menores vazias e clique em Concluir Caixa 40. Reabrir permite corrigir.",
       [
         1163,
-        483,
-        235,
-        268
+        214,
+        240,
+        265
       ]
     ],
     [
@@ -280,9 +280,9 @@ const scenes:Record<string,Array<[string,string,string,[number,number,number,num
       "Pedido é a quantidade prevista. Falta embalar desconta tudo já separado, inclusive menores sem destino. Zero indica distribuição completa desse produto.",
       [
         256,
-        465,
+        190,
         264,
-        216
+        191
       ]
     ],
     [

diff --git a/lib/tutorials.ts b/lib/tutorials.ts
@@ -1,4 +1,4 @@
-export const manualEdition = {revision:"29",updatedAt:"24/11/2026"};
+export const manualEdition = {revision:"30",updatedAt:"24/11/2026"};
 export const manualCategories = [
   {
     "id": "start",
@@ -279,7 +279,7 @@ export const tutorials = [
       {
         "title": "Crie a Caixa 40 junto com as menores",
         "short": "Informe Quantidade e clique em Adicionar caixas menores ou Adicionar bags.",
-        "text": "Sem uma Caixa 40 em montagem, o painel cria a maior junto das menores. Para abrir outra, clique em Nova Caixa 40; nas modalidades somente menores ou bags, ela já começa com uma embalagem interna. Selecione a Caixa 40 no alto e confira Adicionar em antes de criar mais. Quantidade é o número de novas embalagens, não a quantidade de produtos."
+        "text": "Sem uma Caixa 40 em montagem, o painel cria a maior junto das menores. Para abrir outra, clique em Nova Caixa 40; nas modalidades somente menores ou bags, ela já começa com uma embalagem interna. Selecione a Caixa 40 no alto e confira o destino ao lado do botão de adicionar antes de criar mais. Quantidade é o número de novas embalagens, não a quantidade de produtos."
       },
       {
         "title": "Digite as quantidades do pedido",

diff --git a/lib/manual.ts b/lib/manual.ts
@@ -2,7 +2,7 @@ export const manual = [
   {
     "category": "expedition",
     "title": "Onde fica a planilha de caixas menores e Caixa 40?",
-    "text": "Abra o pedido → Expedição → Montar caixas → Planilha do pedido. Use Abrir tela da planilha para ampliar. As menores e bags aparecem em colunas, com o destino Caixa 40 no topo. Crie e preencha tudo nessa tela; a composição da maior aparece ao lado. O formulário antigo continua em Formulário por produto."
+    "text": "Abra o pedido → Expedição → Montar caixas → Planilha do pedido. Use Abrir tela da planilha para ampliar. O cabeçalho compacto reúne busca e criação de embalagens. Ajuda mostra as instruções quando necessário. As menores e bags aparecem em colunas, com o destino Caixa 40 no topo. Crie e preencha tudo nessa tela; a composição da maior aparece ao lado. O formulário antigo continua em Formulário por produto."
   },
   {
     "category": "expedition",
